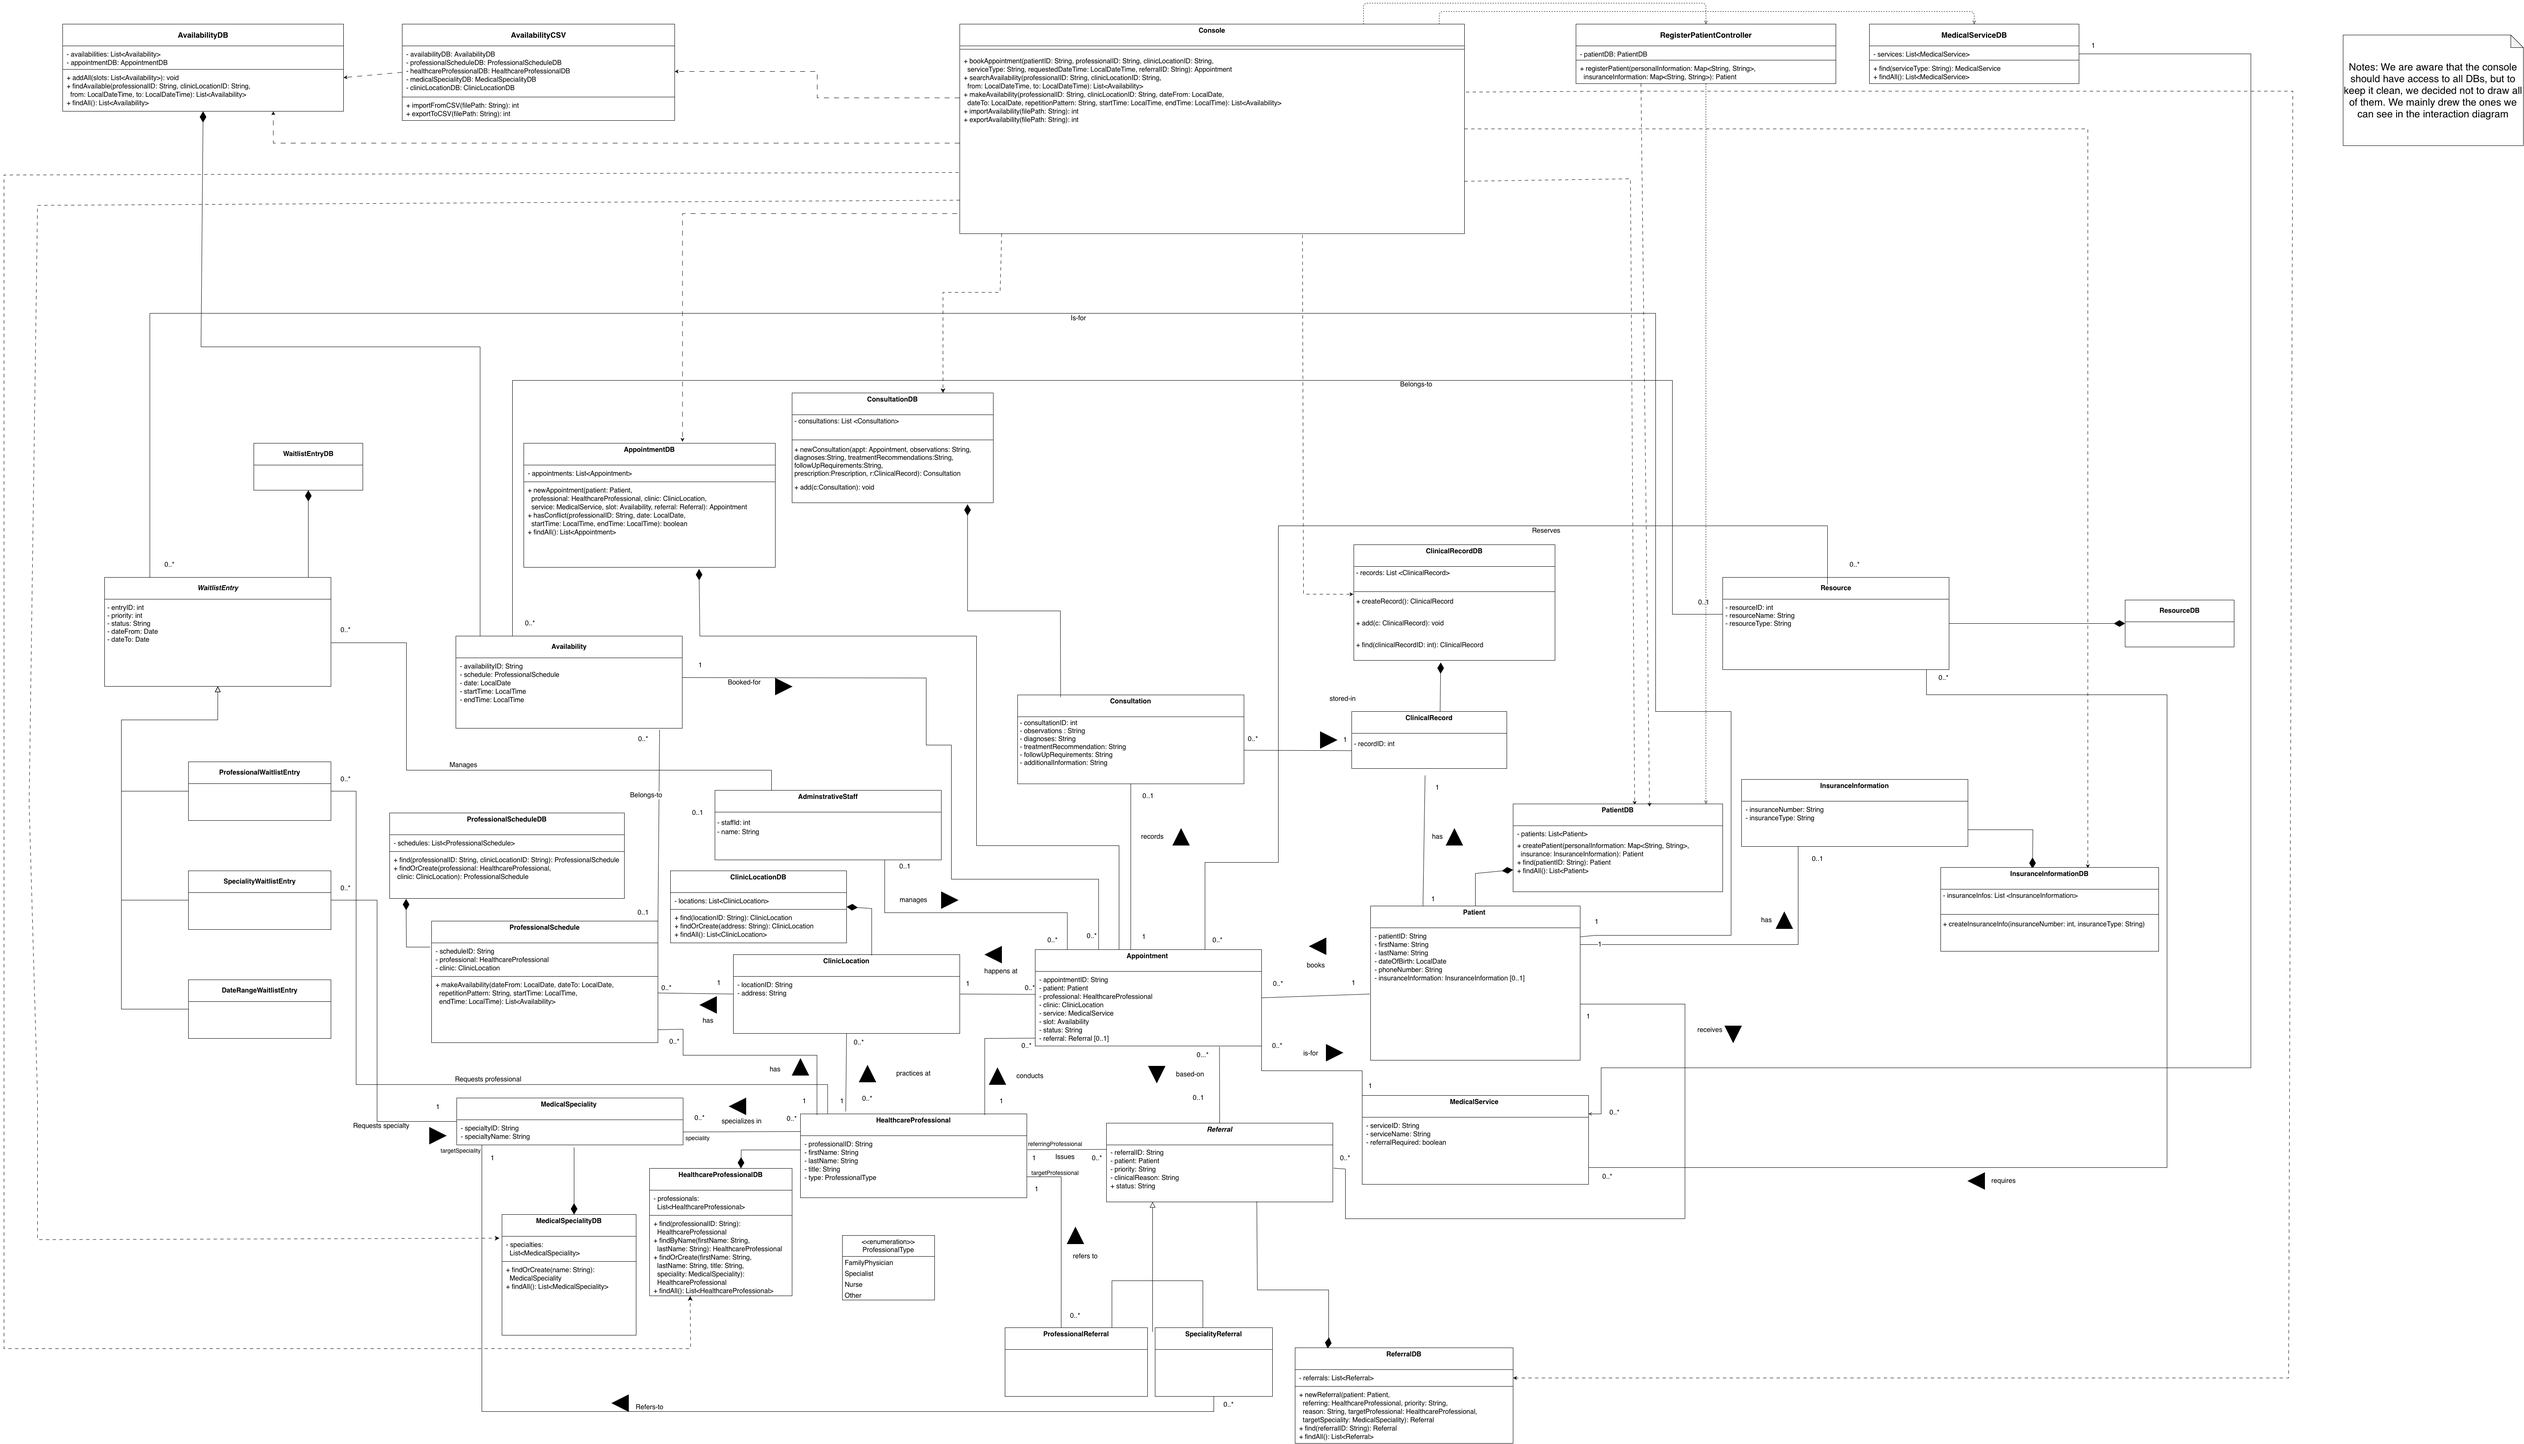
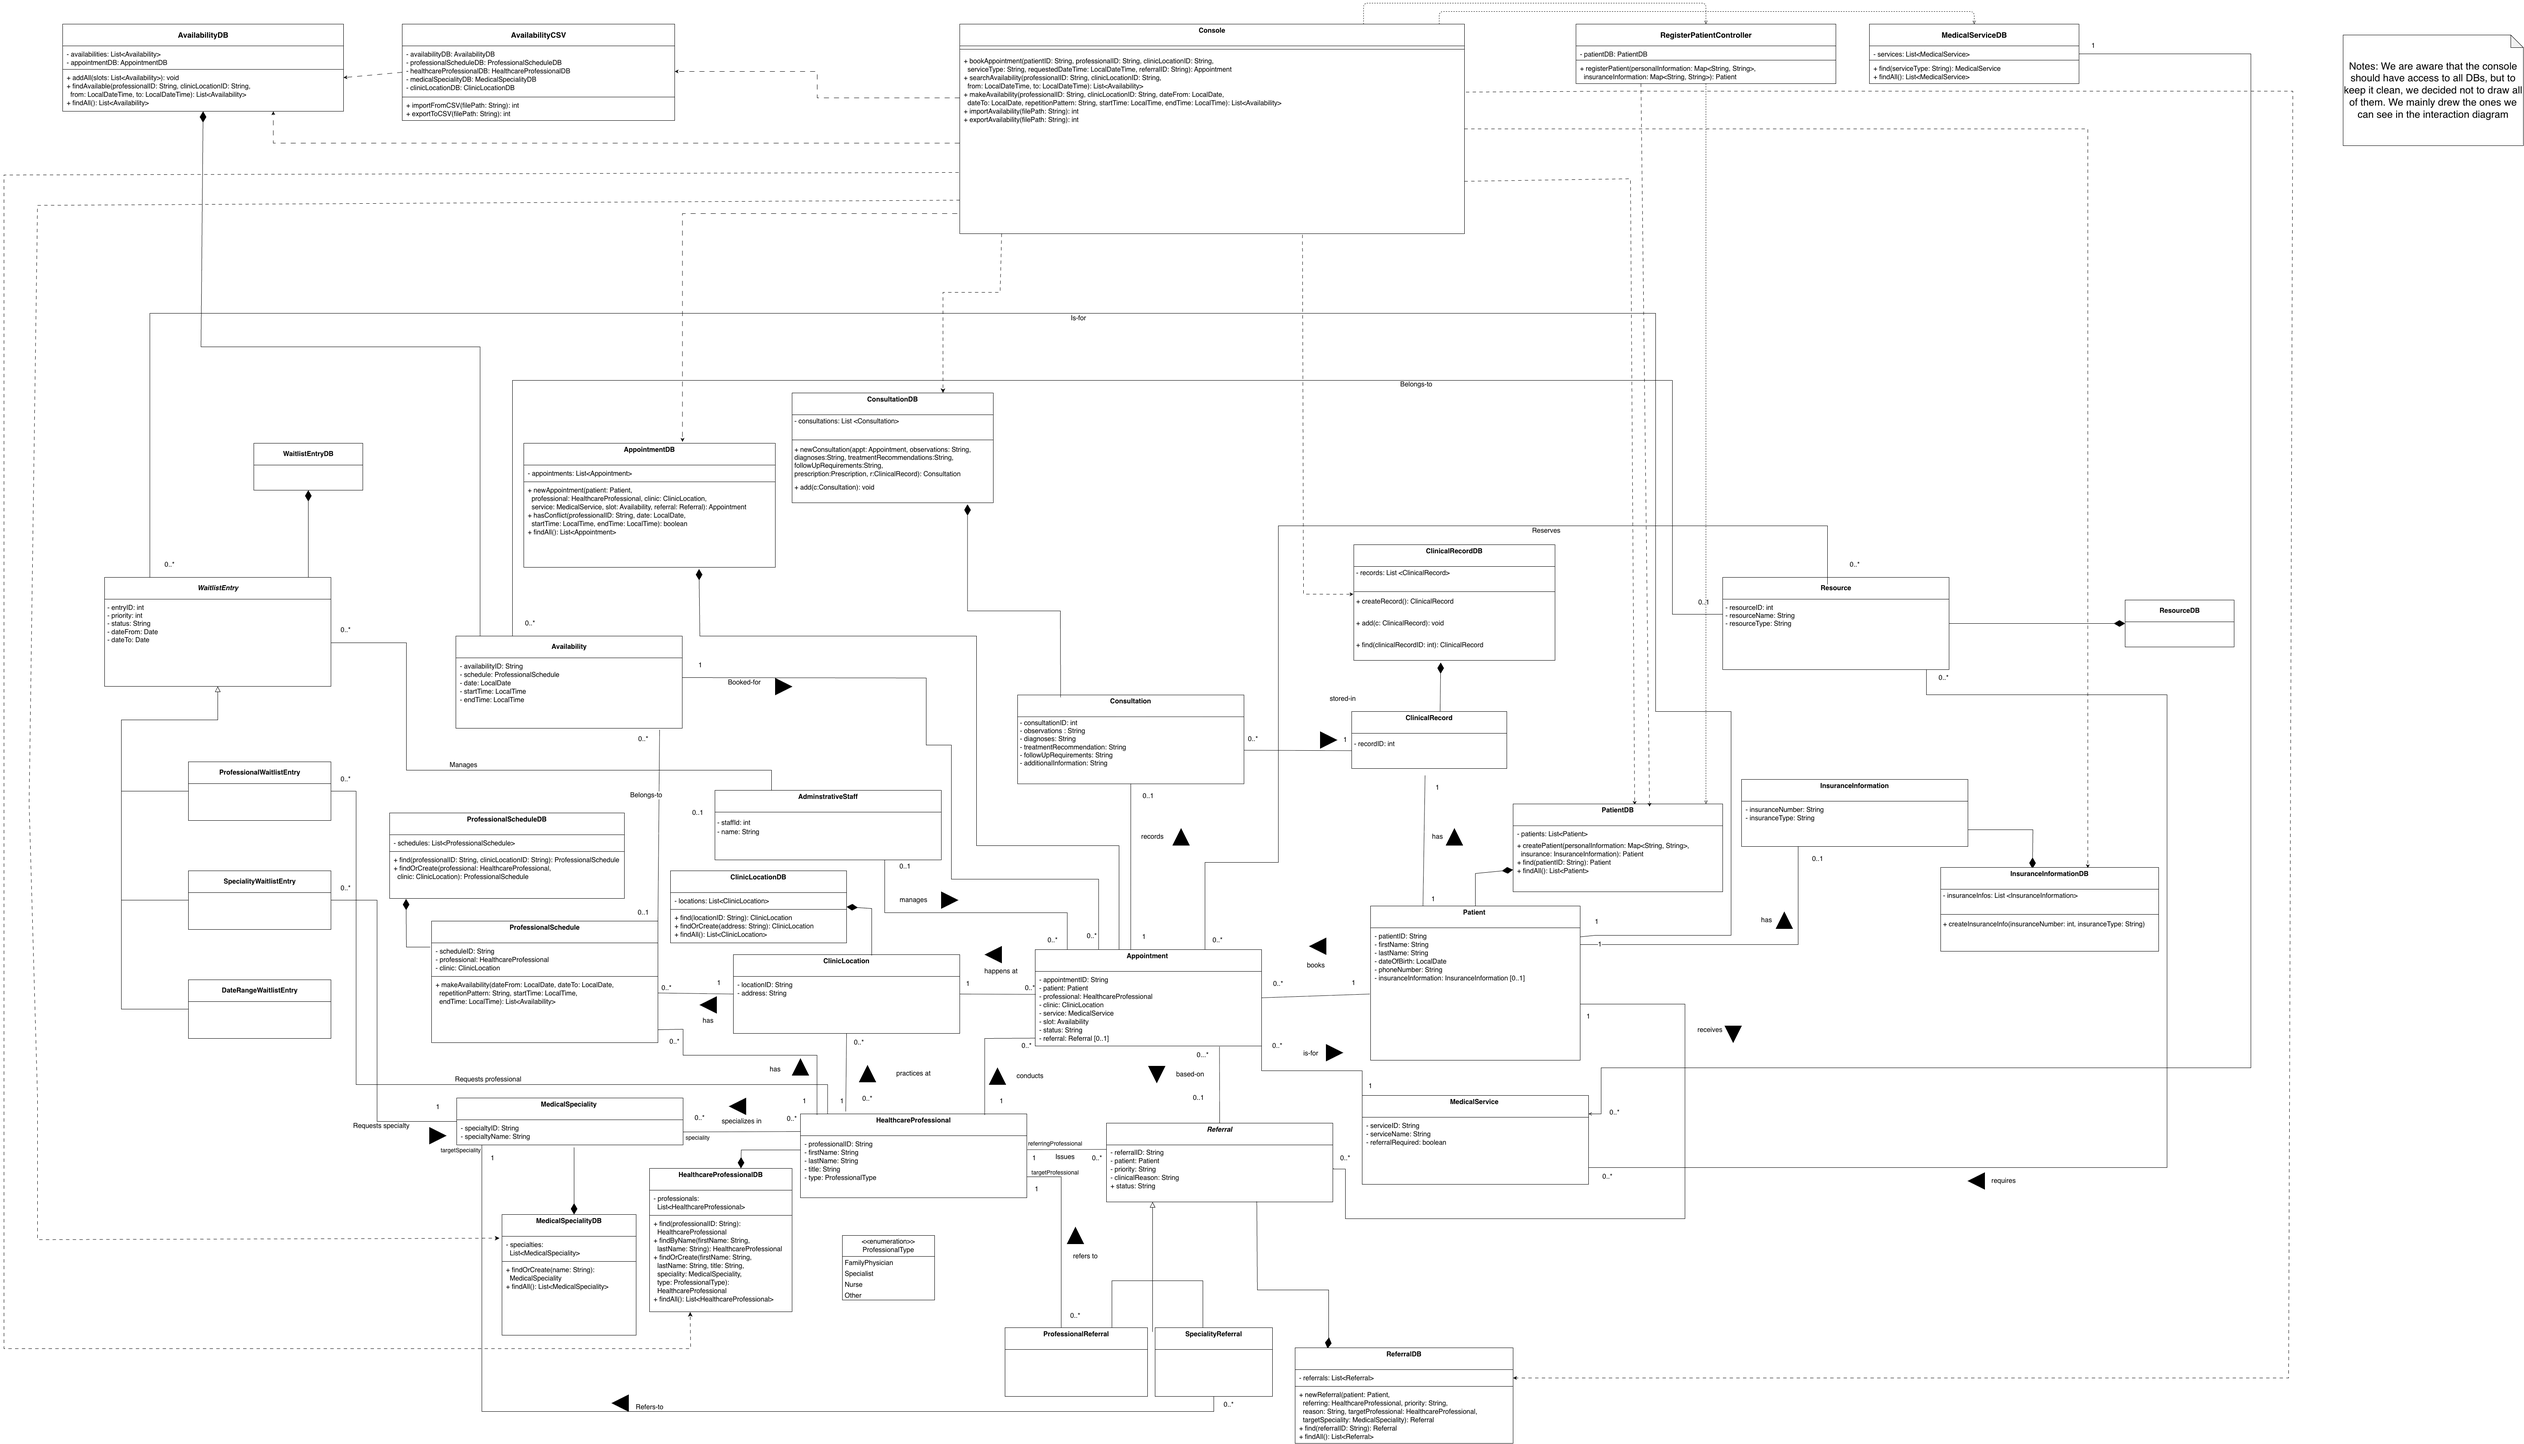
Align professional type diagram and referral test constructors

diff --git a/tests/ReferralTest.java b/tests/ReferralTest.java
@@ -7,9 +7,9 @@ public final class ReferralTest {
         Patient otherPatient = new Patient("P2", "Other", "Patient", LocalDate.of(2000, 1, 1), "5145550101", null);
         MedicalSpeciality cardiology = new MedicalSpeciality("S1", "Cardiology");
         MedicalSpeciality dermatology = new MedicalSpeciality("S2", "Dermatology");
-        HealthcareProfessional target = new HealthcareProfessional("H1", "Alex", "One", "Dr", cardiology);
-        HealthcareProfessional colleague = new HealthcareProfessional("H2", "Sam", "Two", "Dr", cardiology);
-        HealthcareProfessional other = new HealthcareProfessional("H3", "Lee", "Three", "Dr", dermatology);
+        HealthcareProfessional target = new HealthcareProfessional("H1", "Alex", "One", "Dr", cardiology, ProfessionalType.Specialist);
+        HealthcareProfessional colleague = new HealthcareProfessional("H2", "Sam", "Two", "Dr", cardiology, ProfessionalType.Specialist);
+        HealthcareProfessional other = new HealthcareProfessional("H3", "Lee", "Three", "Dr", dermatology, ProfessionalType.Specialist);
         MedicalService service = new MedicalService("M1", "Consultation", true);
         ReferralDB referrals = new ReferralDB();
 
